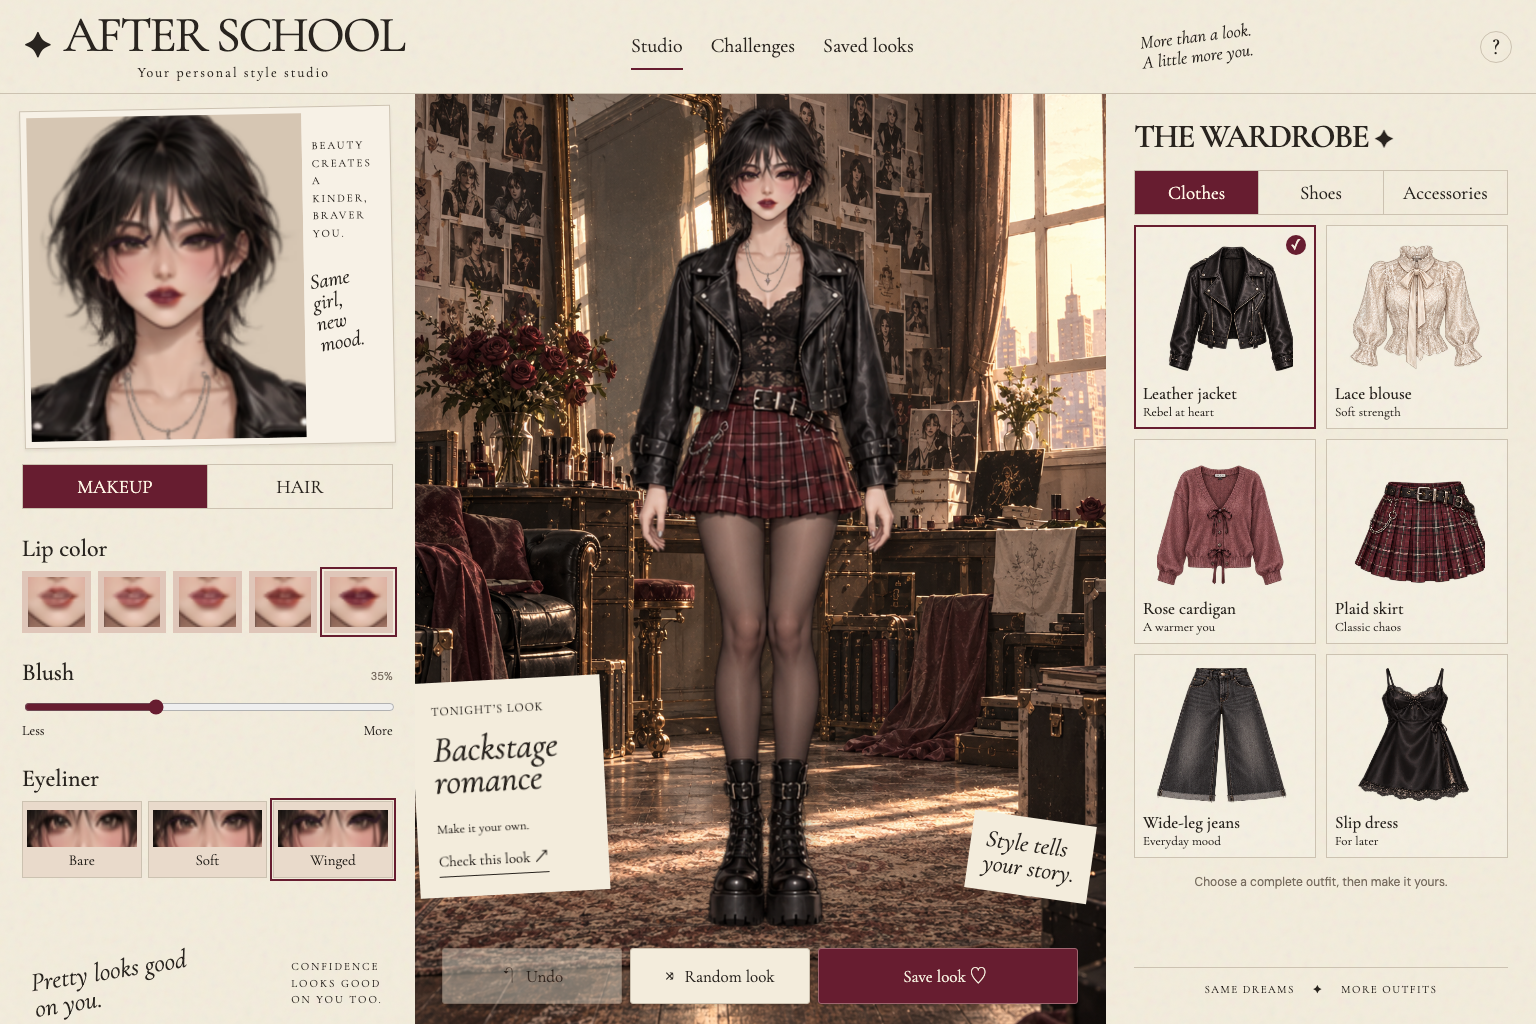
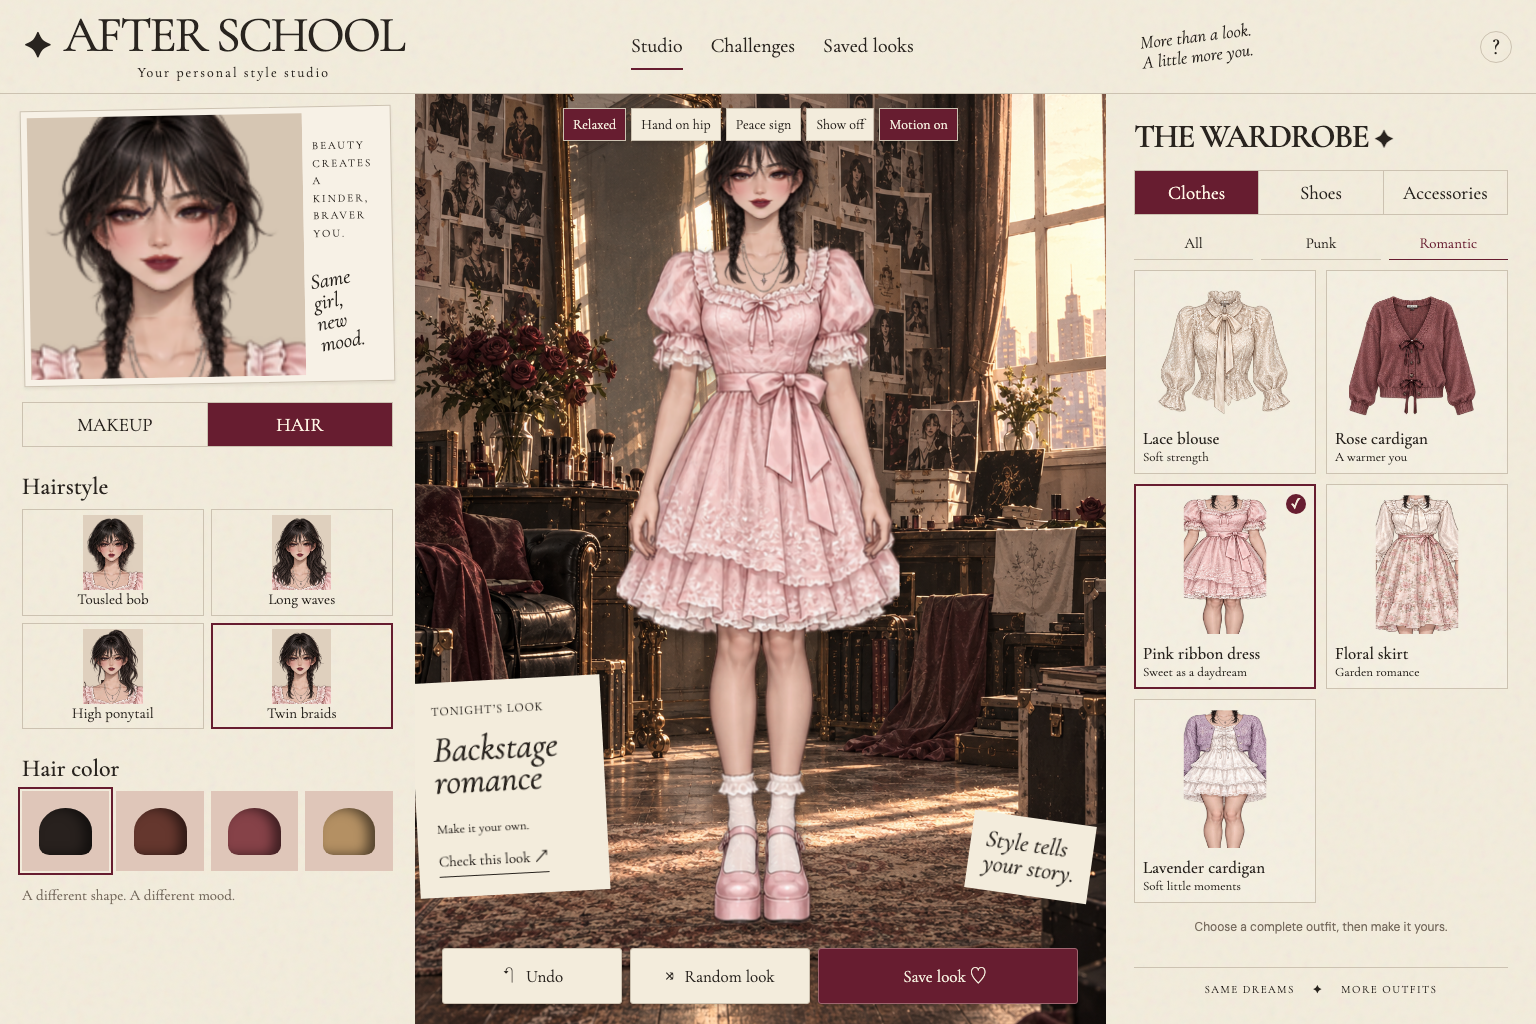
Document new wardrobe and capture animated studio

diff --git a/README.md b/README.md
@@ -3,9 +3,9 @@
 An English, single-player anime styling game inspired by romantic and punk fashion magazines. Original generated character, dressing-room and wardrobe art.
 
 ## Play
-Pick one of six coordinated outfits. Change lipstick, blush, eyeliner, hairstyle, hair color and boot finish. Mix six necklaces with three earring styles and three bracelets. Follow one of three optional styling briefs and earn up to four stars. Undo or randomize, save up to 12 looks in your browser, and download styled portraits.
+Pick from nine coordinated outfits, with Punk and Romantic wardrobe filters. Change lipstick, blush, eyeliner, hairstyle, hair color and boot finish. Mix six necklaces with three earring styles and three bracelets. Choose Relaxed, Hand on hip or Peace sign, then press **Show off** to cycle through the poses. The character breathes, tilts her head, blinks and smiles while motion is on. Follow one of three optional styling briefs and earn up to four stars. Undo or randomize, save up to 12 looks in your browser, and download styled portraits.
 
-This first edition uses complete outfit sprites, rather than freely mixing every top and bottom. Hair controls offer a tousled bob, long waves, high ponytail and twin braids, each with four colors. Shoes offer three platform-boot finishes. Makeup, hair and jewelry are composited on the character and reflected in the close-up and downloaded portrait.
+This edition uses complete outfit sprites, rather than freely mixing every top and bottom. Hair controls offer a tousled bob, long waves, high ponytail and twin braids, each with four colors. Punk looks offer three platform-boot finishes; romantic looks have coordinated shoes. Makeup, hair and jewelry are composited on the character and reflected in the close-up and downloaded portrait. Downloaded portraits capture the selected pose as a still image. The Motion toggle pauses animation, and the site respects reduced-motion settings.
 
 ## Run
 Serve `dist/` with any static server, for example `python3 -m http.server 5174 --directory dist`. No build, API key, backend or account is required by the game. Hosting access may depend on the site's sharing settings. Saved data stays in localStorage; clearing browser data removes the album.
@@ -24,6 +24,8 @@ External fonts are optional; Georgia and system sans-serif fallbacks are supplie
 [Play AFTER SCHOOL](https://wuisabel-gif.github.io/after-school/)
 
 ![AFTER SCHOOL studio](docs/studio.png)
+
+![Pose and face animation recorded in the game](docs/animation.gif)
 
 ## Deployment
 

diff --git a/progress.md b/progress.md
@@ -12,3 +12,7 @@ User requested public GitHub source and public GitHub Pages deployment. Added Pa
 
 Added generated hairstyle atlas (long waves, high ponytail, twin braids plus original bob); 6 necklace choices, independent earrings/bracelets with none options. Save data migrates optional new fields to original bob/no earrings/no bracelet. Randomization, undo, portrait and PNG export share the same composition. Preserved original default head for old looks. New head is clipped around collars with side regions retaining braid length; hair tint also covers extensions. New jewelry/hairstyle controls use existing editorial styling.
 QA: actual IAB selections ponytail/hoops verified, console empty. Playwright passed all four hairstyles, simultaneous ruby necklace/star earrings/cuff, persistence across reload, restore and actual PNG export; mobile 390x844 no overflow. Standard game runner passed. Inspected desktop and exported image, fixed braid clipping and desktop stage stretching. Screenshots temporary at /tmp/after-school-qa. GitHub Pages is current publishing destination.
+
+Added three romantic coordinated outfits and wardrobe filters (All, Punk, Romantic). Generated new matching art for nine outfits in hand-on-hip and peace-sign poses, plus blink and smile expression frames. The character now has three selectable poses, a timed Show off pose cycle, subtle breathing and head movement, blinking, and smiling. A Motion toggle and reduced-motion handling pause movement. Existing saved looks migrate with a relaxed pose. Pose, hair and jewelry are included in save, restore, undo, randomize and PNG export; the export is a still image of the chosen pose.
+
+QA: inspected a 27-frame gallery covering every outfit in every pose and corrected atlas alignment, neighboring-sprite islands and pants clipping. Playwright verified romantic filtering, pose controls, Show off cycling, Motion off, reload persistence, actual PNG download, 390px mobile width, reduced-motion preference and zero page errors. A screen recording of the running game was converted to docs/animation.gif. Final screenshot refreshed in docs/studio.png. Native in-app browser unavailable this session, so visual and interaction checks used Chromium Playwright.
